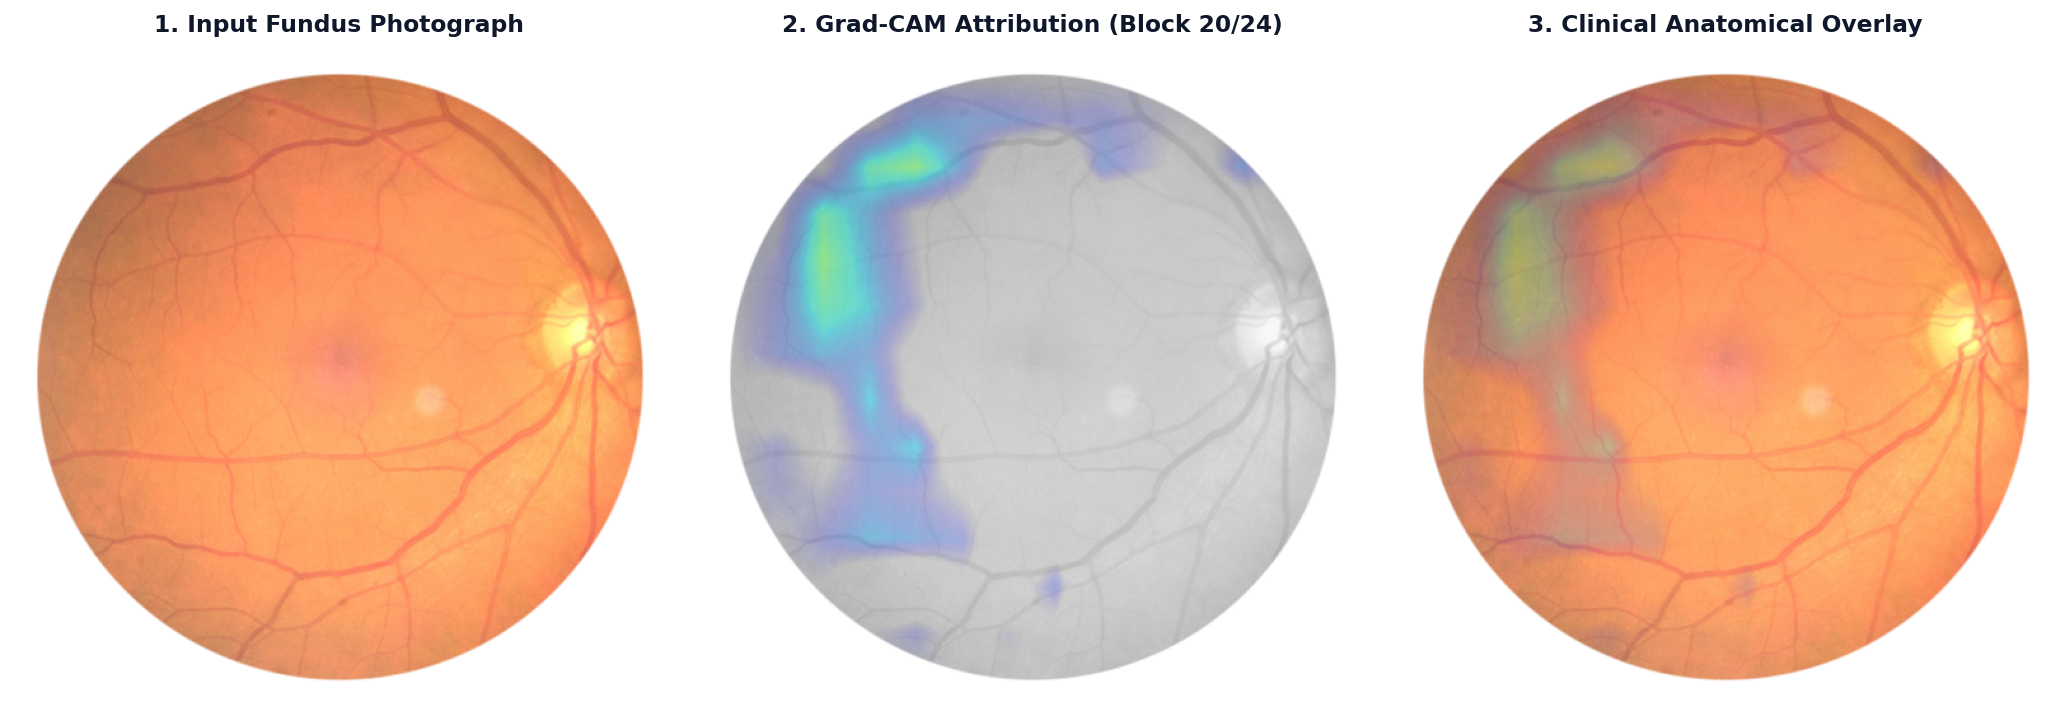
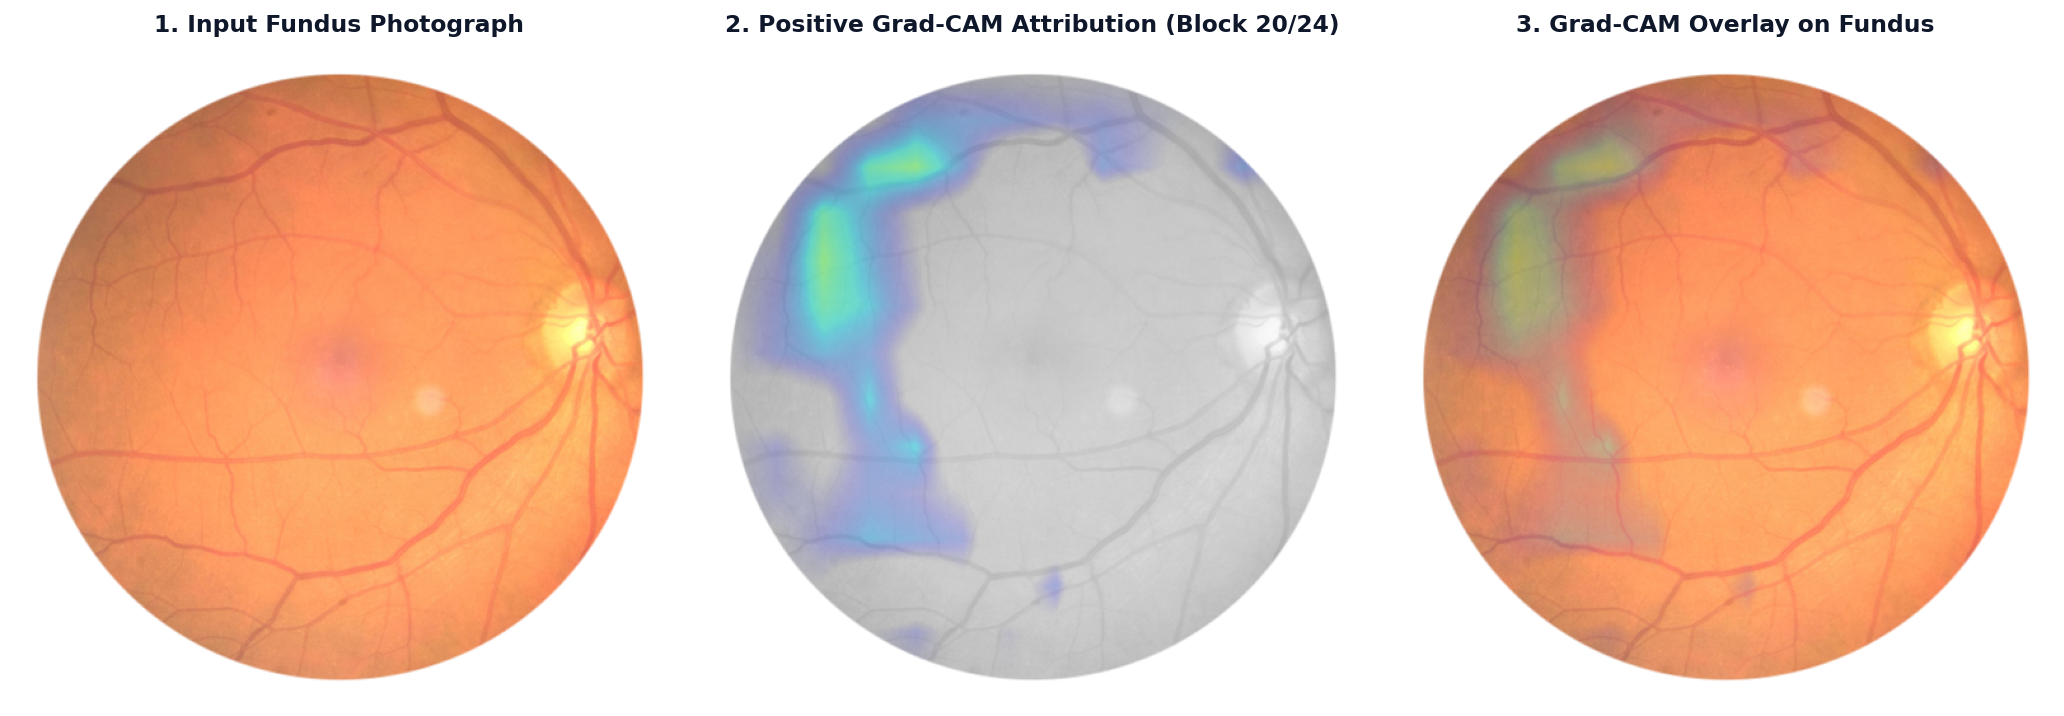
Update Panel 2 and 3 titles to Positive Grad-CAM Attribution and Grad-CAM Overlay on Fundus

Changed region(s): [[0.3411, 0.0, 0.6512, 0.0615], [0.7442, 0.0, 0.9302, 0.0615]]

diff --git a/retfound_clinical_portal.html b/retfound_clinical_portal.html
@@ -679,7 +679,7 @@
 
                     // Panel 2: Heatmap
                     drawCircular(520, () => ctx.drawImage(tempC, 520, py, pw, ph));
-                    ctx.fillText("2. Vascular Attention Heatmap (Layer 20/24)", 520 + pw / 2, 492);
+                    ctx.fillText("2. Positive Grad-CAM Attribution (Block 20/24)", 520 + pw / 2, 492);
 
                     // Panel 3: Overlay
                     drawCircular(1020, () => {
@@ -687,7 +687,7 @@
                         ctx.globalAlpha = 0.45;
                         ctx.drawImage(tempC, 1020, py, pw, ph);
                     });
-                    ctx.fillText("3. Clinical Anatomical Overlay", 1020 + pw / 2, 492);
+                    ctx.fillText("3. Grad-CAM Overlay on Fundus", 1020 + pw / 2, 492);
 
                     // Set generated 3-panel image to gradcamImage
                     document.getElementById('gradcamImage').src = canvas.toDataURL('image/png');

diff --git a/unified_web_gui.py b/unified_web_gui.py
@@ -219,11 +219,11 @@ def generate_gradcam_overlay(pil_img):
     axes[0].axis('off')
     
     axes[1].imshow(p2)
-    axes[1].set_title("2. Vascular Attention Heatmap (Layer 20/24)", color='#0f172a', fontsize=12, pad=10, fontweight='bold')
+    axes[1].set_title("2. Positive Grad-CAM Attribution (Block 20/24)", color='#0f172a', fontsize=12, pad=10, fontweight='bold')
     axes[1].axis('off')
     
     axes[2].imshow(p3)
-    axes[2].set_title("3. Clinical Anatomical Overlay", color='#0f172a', fontsize=12, pad=10, fontweight='bold')
+    axes[2].set_title("3. Grad-CAM Overlay on Fundus", color='#0f172a', fontsize=12, pad=10, fontweight='bold')
     axes[2].axis('off')
     
     plt.tight_layout()
@@ -639,7 +639,7 @@ HTML_TEMPLATE = """
           <div class="flex items-center justify-between mb-4">
             <h3 class="text-base font-bold text-slate-900 flex items-center gap-2">
               <svg class="w-5 h-5 text-sky-600" fill="none" stroke="currentColor" viewBox="0 0 24 24"><path stroke-linecap="round" stroke-linejoin="round" stroke-width="2" d="M13 10V3L4 14h7v7l9-11h-7z"/></svg>
-              Explainable AI: Retinal Microvascular Attention (Grad-CAM Layer 20/24)
+              Explainable AI: RETFound Layer 20/24 Grad-CAM Saliency Maps
             </h3>
             <span class="text-[10px] bg-sky-50 text-sky-700 border border-sky-200 px-2.5 py-1 rounded-full font-mono font-semibold">
               Hooked: ViT Block -4
@@ -649,7 +649,7 @@ HTML_TEMPLATE = """
             <img id="gradcamImage" src="" alt="Grad-CAM Display" class="w-full h-auto">
           </div>
           <p class="text-[11px] text-slate-500 mt-3 italic text-center">
-            Figure: Left = Input Fundus; Middle = Normalized Vascular Activation; Right = Anatomical Overlay targeting superior/inferior temporal arcades.
+            Figure: Left = Input Fundus; Middle = Positive Grad-CAM Attribution (Block 20/24); Right = Grad-CAM Overlay on Fundus.
           </p>
         </div>
 

diff --git a/generate_audit_proof_gradcam.py b/generate_audit_proof_gradcam.py
@@ -263,11 +263,11 @@ for pid in PATIENT_IDS:
         axes[0].axis("off")
 
         axes[1].imshow(p2)
-        axes[1].set_title("2. Grad-CAM Attribution (Block 20/24)", color="#0f172a", fontsize=12, pad=10, fontweight="bold")
+        axes[1].set_title("2. Positive Grad-CAM Attribution (Block 20/24)", color="#0f172a", fontsize=12, pad=10, fontweight="bold")
         axes[1].axis("off")
 
         axes[2].imshow(p3)
-        axes[2].set_title("3. Clinical Anatomical Overlay", color="#0f172a", fontsize=12, pad=10, fontweight="bold")
+        axes[2].set_title("3. Grad-CAM Overlay on Fundus", color="#0f172a", fontsize=12, pad=10, fontweight="bold")
         axes[2].axis("off")
 
         plt.tight_layout()

diff --git a/streamlit_app.py b/streamlit_app.py
@@ -276,11 +276,11 @@ def generate_vascular_attention(pil_img, pid=None):
     axes[0].axis('off')
 
     axes[1].imshow(p2)
-    axes[1].set_title("2. Vascular Attention Heatmap (Layer 20/24)", color='#0f172a', fontsize=12, pad=10, fontweight='bold')
+    axes[1].set_title("2. Positive Grad-CAM Attribution (Block 20/24)", color='#0f172a', fontsize=12, pad=10, fontweight='bold')
     axes[1].axis('off')
 
     axes[2].imshow(p3)
-    axes[2].set_title("3. Clinical Anatomical Overlay", color='#0f172a', fontsize=12, pad=10, fontweight='bold')
+    axes[2].set_title("3. Grad-CAM Overlay on Fundus", color='#0f172a', fontsize=12, pad=10, fontweight='bold')
     axes[2].axis('off')
 
     plt.tight_layout()
